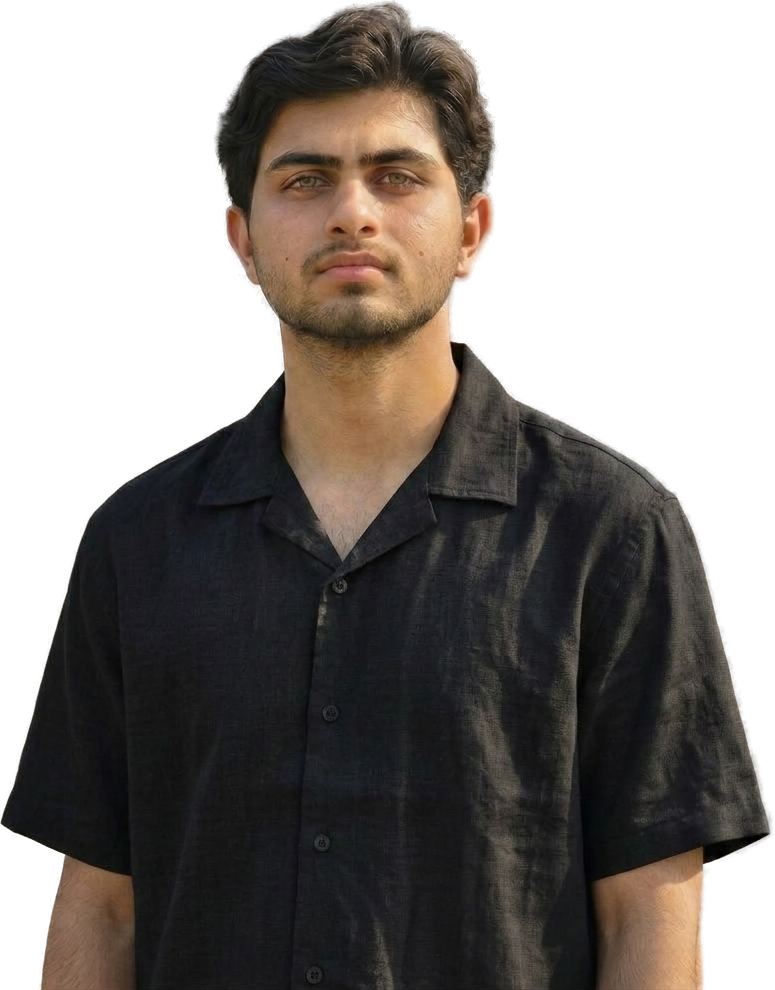
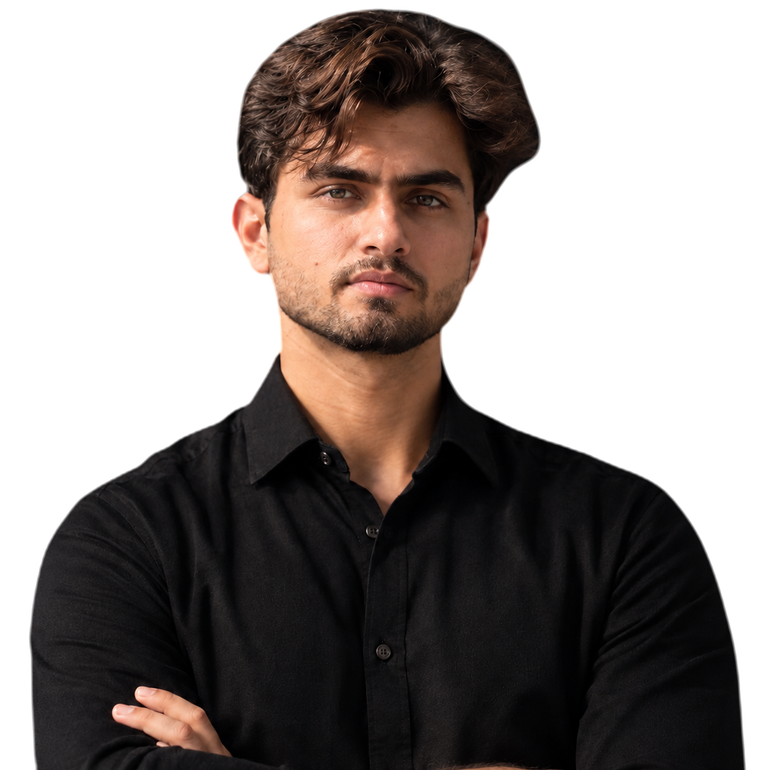
refactor: update Hero component layout and image aspect ratios
- Adjusted the grid layout in the Hero component for better responsiveness.
- Modified the aspect ratio of the HeroPortrait image for improved visual consistency.
- Updated image sizes to enhance loading performance and display on various devices.
- Replaced binary image files for better quality and clarity.

diff --git a/components/sections/Hero.tsx b/components/sections/Hero.tsx
@@ -26,7 +26,7 @@ const fadeUp = {
 export function Hero() {
   return (
     <section id="top" className="relative isolate pt-28 sm:pt-32 lg:pt-40">
-      <div className="container grid grid-cols-1 items-center gap-14 pb-24 lg:grid-cols-[1.15fr_0.85fr] lg:gap-16 lg:pb-32">
+      <div className="container grid grid-cols-1 items-center gap-14 pb-24 lg:grid-cols-[1fr_1fr] lg:gap-16 lg:pb-32">
         <div className="flex flex-col items-start gap-7">
           <motion.div
             custom={0}
@@ -128,7 +128,7 @@ export function Hero() {
           </motion.dl>
         </div>
 
-        <div className="relative mx-auto w-full max-w-sm lg:max-w-none">
+        <div className="relative mx-auto w-full max-w-sm lg:max-w-none lg:self-start lg:-mt-8 lg:scale-110 lg:origin-top">
           <HeroPortrait />
         </div>
       </div>

diff --git a/components/shared/HeroPortrait.tsx b/components/shared/HeroPortrait.tsx
@@ -38,13 +38,13 @@ export function HeroPortrait({
         className="pointer-events-none absolute left-1/2 top-[46%] -z-10 h-[78%] w-[86%] -translate-x-1/2 -translate-y-1/2 rounded-full bg-band opacity-30 blur-3xl"
       />
 
-      <div className="relative aspect-[775/990] w-full">
+      <div className="relative aspect-[775/770] w-full">
         <Image
           src={src}
           alt={alt}
           fill
           priority
-          sizes="(max-width: 1024px) 420px, 520px"
+          sizes="(max-width: 1024px) 420px, 680px"
           className="object-contain object-bottom"
           style={{
             maskImage:
